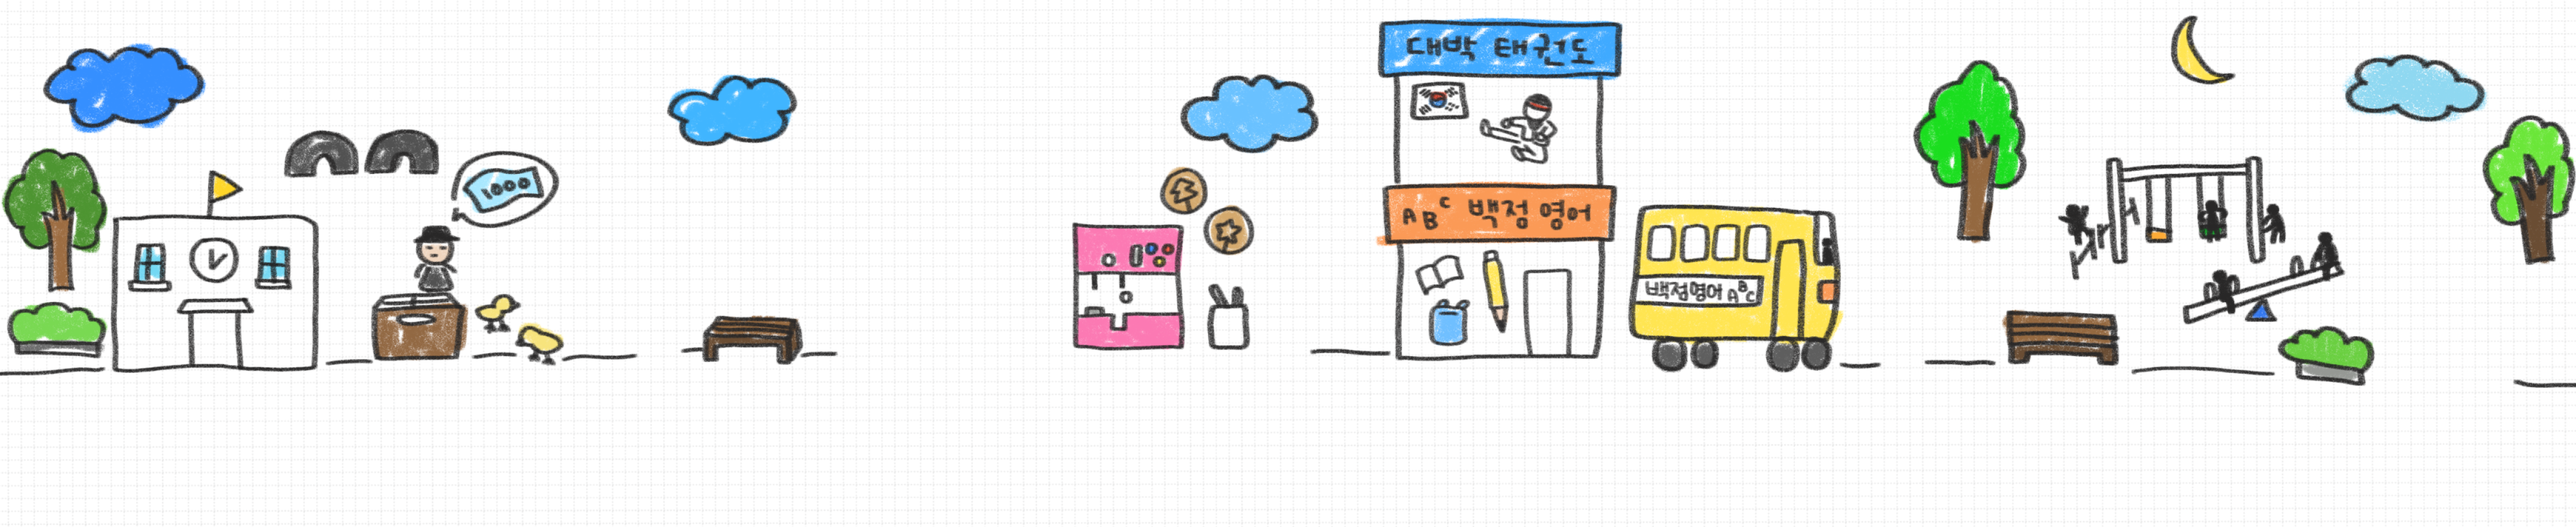
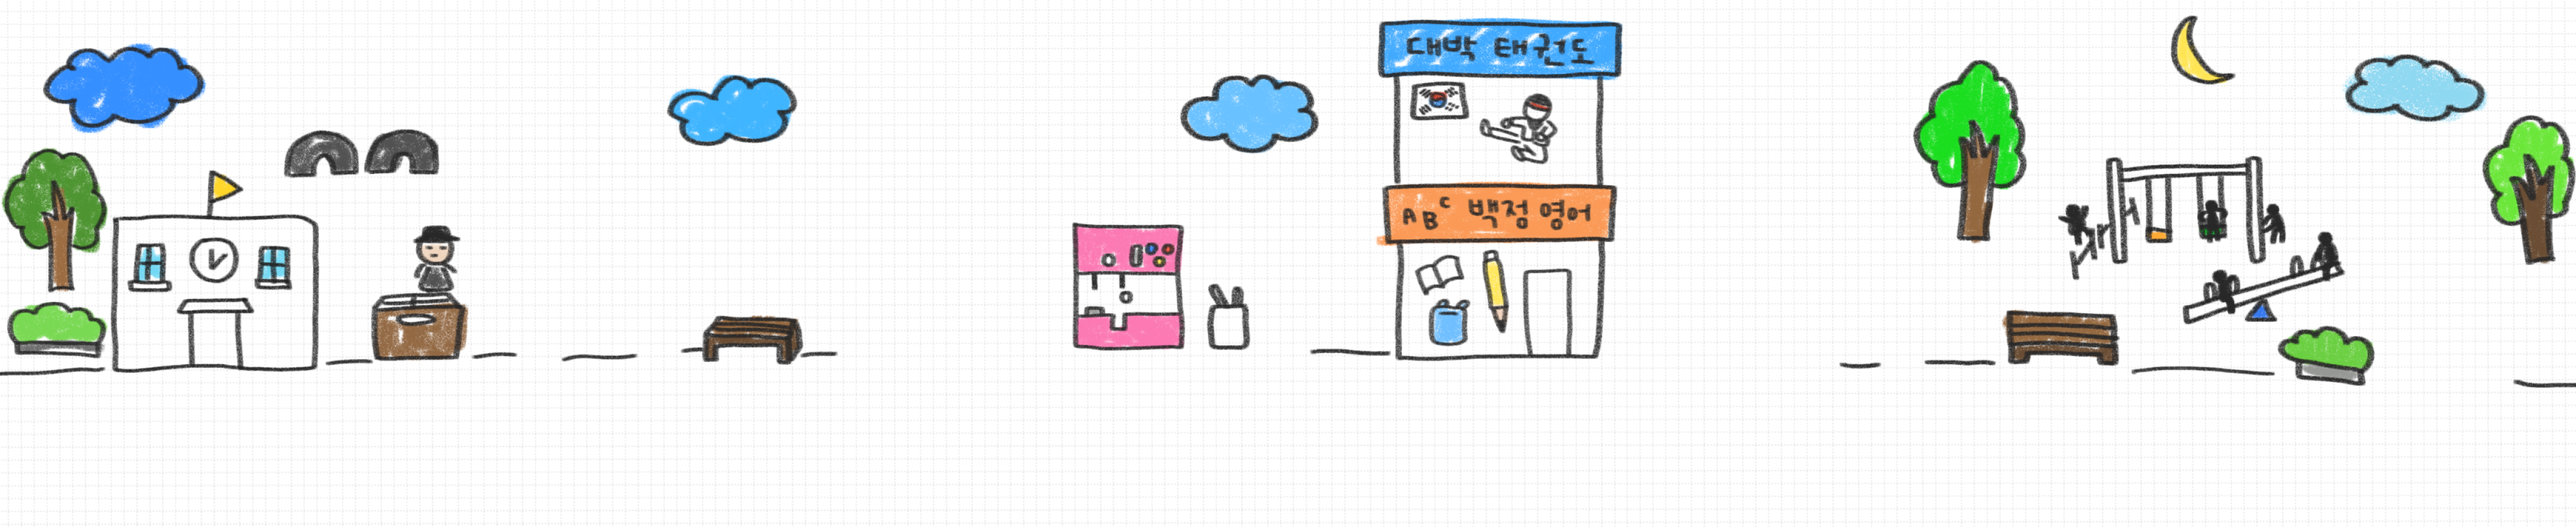
✨ Feat: 버스 이동 애니메이션 및 클릭 유도 테두리 삽입

diff --git a/src/Pages/Map3.jsx b/src/Pages/Map3.jsx
@@ -6,9 +6,15 @@ import bgImage from "../sources/images/Map/map3/map3.png";
 import dateFormatImg from "../sources/images/Map/dateFormat.png";
 import characterImage from "../sources/images/Map/girl.png";
 import loading1 from "../sources/images/icettaeng.gif";
+import chickManBorderImage from "../sources/images/Map/map3/chickManBorder.png";
+import chickImage from "../sources/images/Map/map3/chick.png";
+import moneyImage from "../sources/images/Map/map3/money.png";
 import lampOffImage from "../sources/images/Map/map3/lampOff.png";
 import lampOnImage from "../sources/images/Map/map3/lampOn.png";
 import shopImage from "../sources/images/Map/map3/shop.png";
+import shopBorderImage from "../sources/images/Map/map3/shopBorder.png";
+import sugarSnackImage from "../sources/images/Map/map3/sugarSnack.png";
+import busImage from "../sources/images/Map/map3/bus.png";
 import snack1Image from "../sources/images/Map/map3/snack1.png";
 import snack2Image from "../sources/images/Map/map3/snack2.png";
 import houseImage from "../sources/images/Map/map3/house.png";
@@ -40,10 +46,16 @@ export default function Map2() {
   const [loading, setLoading] = useState(false);
   const [lamp1Status, setLamp1Status] = useState(false);
   const [lamp2Status, setLamp2Status] = useState(false);
+  const [chickStatus, setChickStatus] = useState(false);
+  const [sugarSnackStatus, setSugarSnackStatus] = useState(false);
+  const [bus, setBus] = useState({ x: 3143, y: 374 });
+  const [busAnimation, setBusAnimation] = useState(true);
   const [snackStatus, setSnackStatus] = useState(false);
+  const [stop, setStop] = useState(false);
   const navigator = useNavigate();
   const canvasRef = useRef(null);
   const requestAnimationRef = useRef(null);
+
   // canvas가 정의되었다면 애니메이션 그리기
   useEffect(() => {
     if (!canvasRef.current) return;
@@ -61,6 +73,28 @@ export default function Map2() {
       const context = canvas.getContext("2d");
       let x = e.clientX - context.canvas.offsetLeft;
       let y = e.clientY - context.canvas.offsetTop;
+
+      // 병아리 아저씨 클릭 확인
+      const chickMan = new Image();
+      chickMan.src = chickManBorderImage;
+      if (
+        x >=
+          background.x +
+            (687 / 5000) * bg.width * (canvasRef.current.height / bg.height) &&
+        y >= background.y + (396 / 1024) * canvasRef.current.height &&
+        x <=
+          background.x +
+            (687 / 5000) * bg.width * (canvasRef.current.height / bg.height) +
+            (chickMan.width / 5000) *
+              bg.width *
+              (canvasRef.current.height / bg.height) &&
+        y <=
+          background.y +
+            (396 / 1024) * canvasRef.current.height +
+            (chickMan.height / 1024) * canvasRef.current.height
+      ) {
+        setChickStatus(true);
+      }
 
       // 포장마차 클릭 확인
       const shop = new Image();
@@ -124,6 +158,7 @@ export default function Map2() {
     }
   }, [round]);
 
+  // 램프 켜기
   useEffect(() => {
     if (
       background.x <
@@ -138,10 +173,24 @@ export default function Map2() {
       setLamp2Status(true);
     }
   }, [background]);
+
+  // 달고나 보이기
+  useEffect(() => {
+    if (
+      background.x <
+      (-1300 / 5000) * bg.width * (canvasRef.current.height / bg.height)
+    ) {
+      setSugarSnackStatus(true);
+    }
+  }, [background]);
+
   // 렌더링 함수
   const render = () => {
     if (!canvasRef.current) return;
     drawBg();
+    if (busAnimation) {
+      drawBus();
+    }
     drawCharacter();
     handleMove();
     requestAnimationRef.current = requestAnimationFrame(render);
@@ -195,6 +244,61 @@ export default function Map2() {
         (lamp2.height / 1024) * canvasRef.current.height
       );
     };
+
+    // 병아리 아저씨 테두리 그리기
+    const chickManBorder = new Image();
+    chickManBorder.src = chickManBorderImage;
+    if (!chickStatus) {
+      chickManBorder.onload = () => {
+        context.drawImage(
+          chickManBorder,
+          background.x +
+            (687 / 5000) * bg.width * (canvasRef.current.height / bg.height),
+          background.y + (396 / 1024) * canvasRef.current.height,
+          (chickManBorder.width / 5000) *
+            bg.width *
+            (canvasRef.current.height / bg.height),
+          (chickManBorder.height / 1024) * canvasRef.current.height
+        );
+      };
+    }
+    // 돈 그리기
+    const money = new Image();
+    money.src = moneyImage;
+
+    money.onload = () => {
+      if (chickStatus) {
+        context.drawImage(
+          money,
+          background.x +
+            (874 / 5000) * bg.width * (canvasRef.current.height / bg.height),
+          background.y + (276 / 1024) * canvasRef.current.height,
+          (money.width / 5000) *
+            bg.width *
+            (canvasRef.current.height / bg.height),
+          (money.height / 1024) * canvasRef.current.height
+        );
+      }
+    };
+
+    // 병아리 그리기
+    const chick = new Image();
+    chick.src = chickImage;
+
+    chick.onload = () => {
+      if (chickStatus) {
+        context.drawImage(
+          chick,
+          background.x +
+            (916 / 5000) * bg.width * (canvasRef.current.height / bg.height),
+          background.y + (548 / 1024) * canvasRef.current.height,
+          (chick.width / 5000) *
+            bg.width *
+            (canvasRef.current.height / bg.height),
+          (chick.height / 1024) * canvasRef.current.height
+        );
+      }
+    };
     // 포장마차 그리기
     const shop = new Image();
     shop.src = shopImage;
@@ -204,11 +308,29 @@ export default function Map2() {
         shop,
         background.x +
           (1643 / 5000) * bg.width * (canvasRef.current.height / bg.height),
-        background.y + (264 / 1024) * canvasRef.current.height,
+        background.y + (288 / 1024) * canvasRef.current.height,
         (shop.width / 5000) * bg.width * (canvasRef.current.height / bg.height),
         (shop.height / 1024) * canvasRef.current.height
       );
     };
+
+    // 포장마차 테두리 그리기
+    const shopBorder = new Image();
+    shopBorder.src = shopBorderImage;
+    if (!snackStatus) {
+      shopBorder.onload = () => {
+        context.drawImage(
+          shopBorder,
+          background.x +
+            (1643 / 5000) * bg.width * (canvasRef.current.height / bg.height),
+          background.y + (288 / 1024) * canvasRef.current.height,
+          (shopBorder.width / 5000) *
+            bg.width *
+            (canvasRef.current.height / bg.height),
+          (shopBorder.height / 1024) * canvasRef.current.height
+        );
+      };
+    }
 
     // 간식 그리기
     const snack1 = new Image();
@@ -241,6 +363,25 @@ export default function Map2() {
         );
       };
     }
+
+    // 달고나 그리기
+    const sugarSnack = new Image();
+    sugarSnack.src = sugarSnackImage;
+
+    sugarSnack.onload = () => {
+      if (sugarSnackStatus) {
+        context.drawImage(
+          sugarSnack,
+          background.x +
+            (2230 / 5000) * bg.width * (canvasRef.current.height / bg.height),
+          background.y + (312 / 1024) * canvasRef.current.height,
+          (sugarSnack.width / 5000) *
+            bg.width *
+            (canvasRef.current.height / bg.height),
+          (sugarSnack.height / 1024) * canvasRef.current.height
+        );
+      }
+    };
 
     // 집 그리기
     const house = new Image();
@@ -306,11 +447,63 @@ export default function Map2() {
     };
   };
 
+  const drawBus = () => {
+    const canvas = canvasRef.current;
+    const context = canvas.getContext("2d");
+
+    const busImg = new Image();
+    busImg.src = busImage;
+
+    busImg.onload = () => {
+      if (
+        background.x <
+        (-2000 / 5000) * bg.width * (canvasRef.current.height / bg.height)
+      ) {
+        setStop(true);
+        context.drawImage(
+          busImg,
+          background.x +
+            (bus.x / 5000) * bg.width * (canvasRef.current.height / bg.height),
+          background.y + (bus.y / 1024) * canvasRef.current.height,
+          (busImg.width / 5000) *
+            bg.width *
+            (canvasRef.current.height / bg.height),
+          (busImg.height / 1024) * canvasRef.current.height
+        );
+
+        if (
+          background.x +
+            (bus.x / 5000) * bg.width * (canvasRef.current.height / bg.height) >
+          canvas.width
+        ) {
+          console.log("fkasjd");
+          setBusAnimation(false);
+          setStop(false);
+        }
+        setBus({ ...bus, x: bus.x + 5 });
+      } else {
+        context.drawImage(
+          busImg,
+          background.x +
+            (bus.x / 5000) * bg.width * (canvasRef.current.height / bg.height),
+          background.y + (bus.y / 1024) * canvasRef.current.height,
+          (busImg.width / 5000) *
+            bg.width *
+            (canvasRef.current.height / bg.height),
+          (busImg.height / 1024) * canvasRef.current.height
+        );
+      }
+    };
+  };
   const handleMove = () => {
     switch (pressedKey) {
       case "ArrowLeft":
         if (background.x < 0) {
-          setBackground({ ...background, x: background.x + 5 });
+          if (stop) {
+            setBackground({ ...background });
+          } else {
+            setBackground({ ...background, x: background.x + 5 });
+          }
         }
         return;
       case "ArrowRight":
@@ -318,8 +511,13 @@ export default function Map2() {
           background.x + bg.width * (canvasRef.current.height / bg.height) >
           canvasRef.current.width
         ) {
-          setBackground({ ...background, x: background.x - 5 });
+          if (stop) {
+            setBackground({ ...background });
+          } else {
+            setBackground({ ...background, x: background.x - 5 });
+          }
         } else {
+          setStop(true);
         }
         return;
     }
